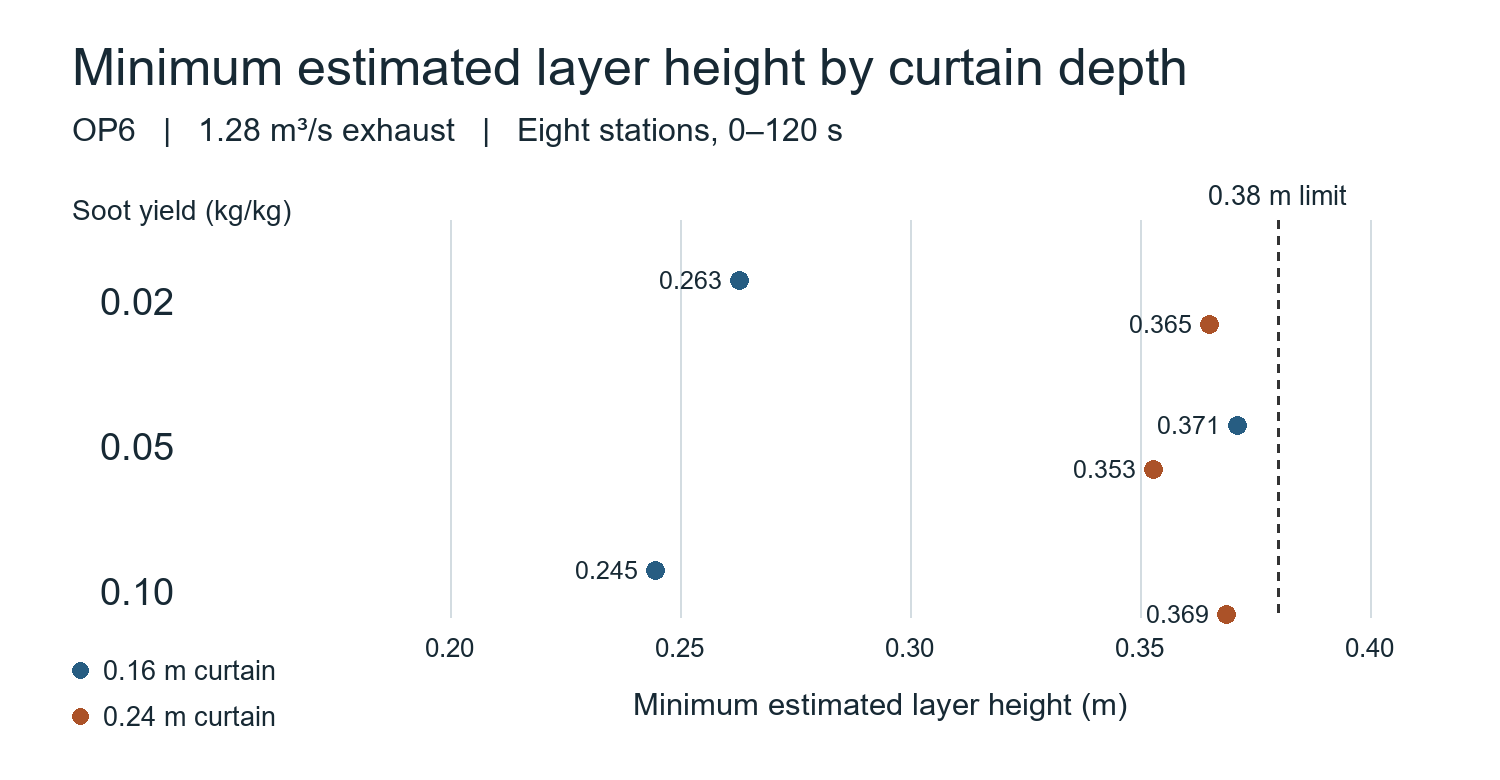
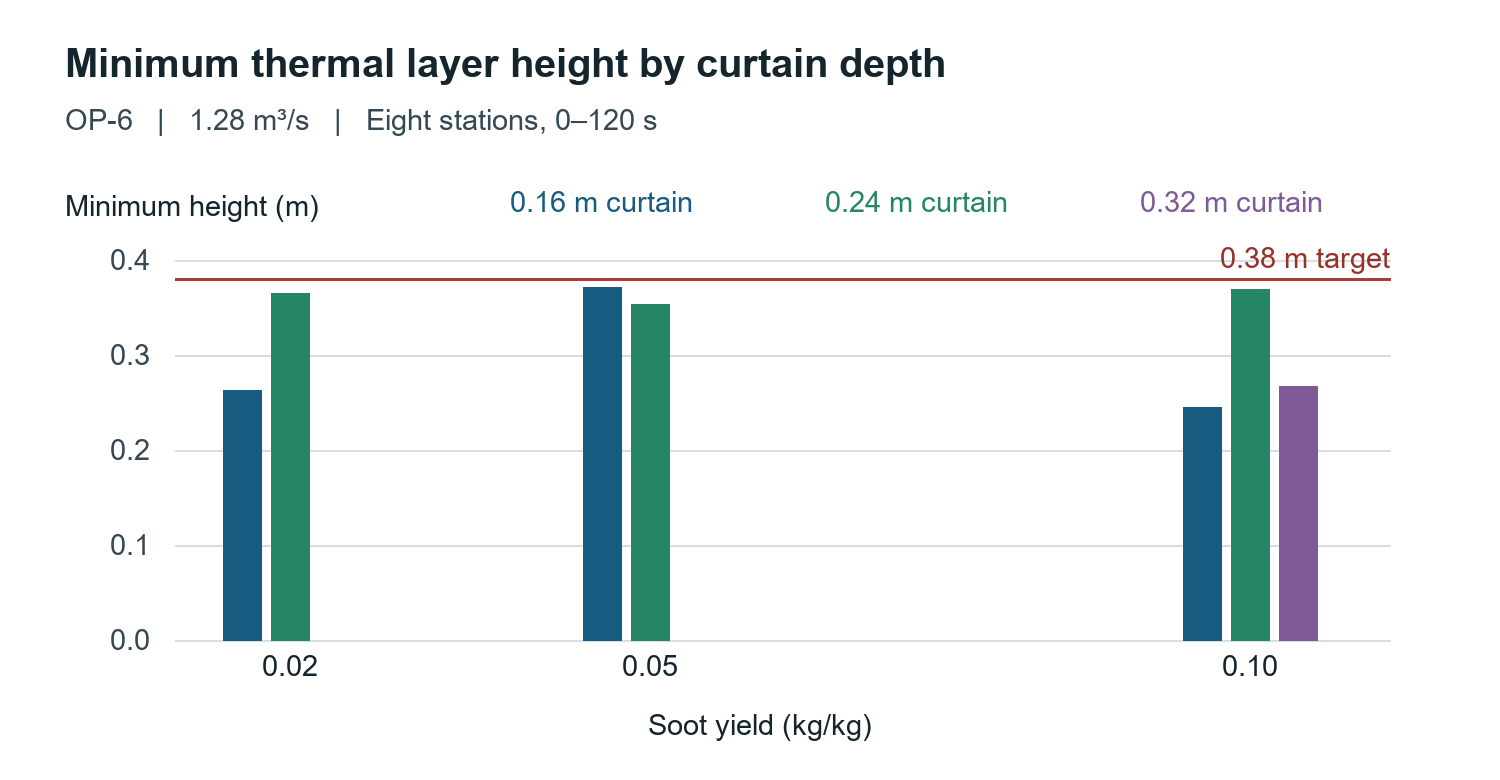
Render curtain sensitivity figure from seven completed scenarios

diff --git a/06_Tools/plot_curtain_soot.py b/06_Tools/plot_curtain_soot.py
@@ -1,0 +1,44 @@
+"""Render completed OP-6 scenario minima from the review table."""
+import csv
+from pathlib import Path
+
+from PIL import Image, ImageDraw, ImageFont
+
+root = Path(__file__).resolve().parents[1]
+source = root / "05_Calculations/tall_makeup_op6_completed_scenarios.csv"
+with source.open(encoding="utf-8-sig") as stream:
+    rows = [r for r in csv.DictReader(stream) if r["opening"] == "OP6"
+            and float(r["end_s"]) == 120 and float(r["total_flow_m3_s"]) == 1.28]
+
+canvas = Image.new("RGB", (1500, 780), "white")
+draw = ImageDraw.Draw(canvas)
+font = ImageFont.truetype("arial.ttf", 29)
+title = ImageFont.truetype("arialbd.ttf", 40)
+draw.text((65, 40), "Minimum thermal layer height by curtain depth", font=title, fill="#15252d")
+draw.text((65, 103), "OP-6   |   1.28 m³/s   |   Eight stations, 0–120 s", font=font, fill="#354954")
+draw.text((65, 189), "Minimum height (m)", font=font, fill="#15252d")
+
+def y(height):
+    return 640 - height * 950
+
+for tick in (0, 0.1, 0.2, 0.3, 0.4):
+    draw.line((175, y(tick), 1390, y(tick)), fill="#d7dde0", width=2)
+    draw.text((150, y(tick)), f"{tick:.1f}", anchor="rm", font=font, fill="#354954")
+draw.line((175, y(0.38), 1390, y(0.38)), fill="#ac3d36", width=3)
+draw.text((1390, y(0.38)-5), "0.38 m target", anchor="rb", font=font, fill="#963229")
+
+depths = sorted({float(row["curtain_depth_m"]) for row in rows})
+colors = {0.16: "#185c81", 0.24: "#268566", 0.32: "#805a96"}
+for i, depth in enumerate(depths):
+    draw.text((510 + 315*i, 185), f"{depth:.2f} m curtain", font=font, fill=colors[depth])
+    for row in rows:
+        if float(row["curtain_depth_m"]) != depth:
+            continue
+        soot = float(row["soot_yield"])
+        x = 290 + (soot - 0.02) * 12000 + (i-1)*48
+        h = float(row["min_layer_m"])
+        draw.rectangle((x-19, y(h), x+19, y(0)), fill=colors[depth])
+for soot in (0.02, 0.05, 0.10):
+    draw.text((290 + (soot-0.02)*12000, 655), f"{soot:.2f}", anchor="mt", font=font, fill="#15252d")
+draw.text((760, 714), "Soot yield (kg/kg)", anchor="mt", font=font, fill="#15252d")
+canvas.save(root / "07_Report/op6_curtain_soot_minimum_height.png", dpi=(200, 200))
